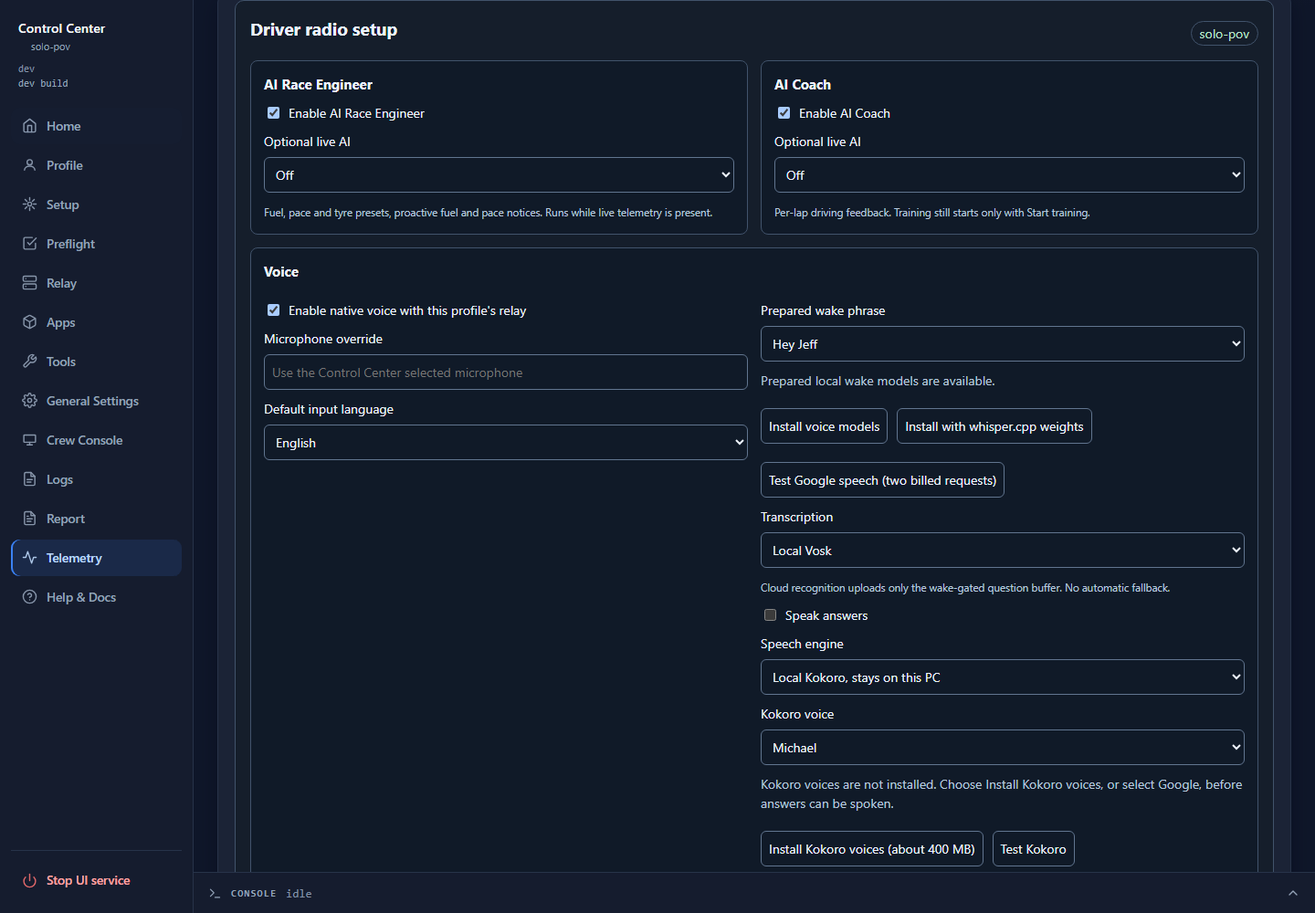
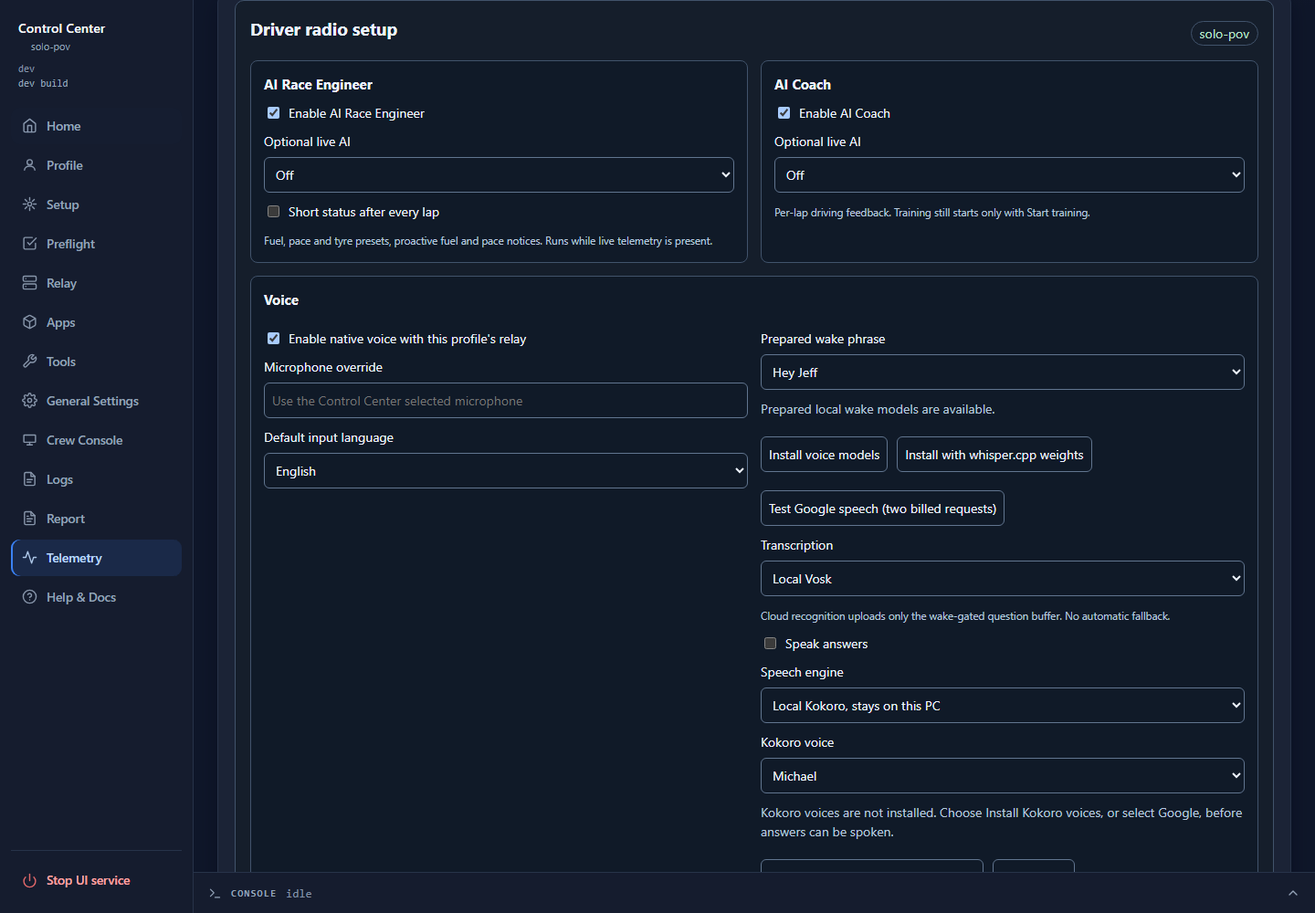
feat(radio): add lap updates and an earlier pace trend
Add an optional short status after every confirmed lap, off by default, switched
in the AI Race Engineer card. A pace trend now needs three comparable laps, not
six: the windows share the laps there are and grow to their limits. One slow lap
shows in the status answer, but the automatic notice and the tyre hint wait for
a repeat, so a single spin does not trigger them.

Changed region(s): [[0.5625, 0.341, 0.9375, 0.961], [0.1875, 0.217, 0.5625, 0.527]]

diff --git a/src/console/driver-radio.js b/src/console/driver-radio.js
@@ -15,7 +15,7 @@ function sourceOf(message){return message.source==='coach'||message.source==='en
 // A refusal is the hint that its feature is switched off, not advice: the switched-off
 // feature's own section only says Off, so the hint goes to the shared Voice row.
 function bySource(messages){const split={engineer:[],coach:[]};for(const message of messages||[])if(message.kind!=='refusal')split[sourceOf(message)].push(message);return split;}
-const KINDS={question:'Voice question',requested:'Requested answer',refusal:'Feature off',coach:'Coach message'};
+const KINDS={question:'Voice question',requested:'Requested answer',lap:'Lap update',refusal:'Feature off',coach:'Coach message'};
 function messageItem(message){const li=el('li');li.append(el('small',(KINDS[message.kind]||'Automatic advice')+' · '+message.state));if(message.question)li.append(el('p',message.question,'muted'));li.append(el('p',message.text));if(message.explanation)li.append(el('p','Interpretation: '+message.explanation,'muted'));return li;}
 function agentChoices(select,agents,chosen){select.replaceChildren(new Option('Off',''));for(const row of agents||[])select.append(new Option(row.name,row.id));if(chosen&&!Array.from(select.options).some(o=>o.value===chosen))select.append(new Option('Unavailable configured agent',chosen));select.value=chosen||'';}
 class View {
@@ -117,14 +117,14 @@ class View {
   this.q('setup-form').querySelector('button').disabled=!this.setup.binding;this.q('service-form').querySelector('button').disabled=!this.setup.binding;
  }
  buildAdmin(){
-  this.content.innerHTML=`<form id="admin-form"><div class="cards"><section class="setting" aria-label="AI Race Engineer settings"><h3>AI Race Engineer</h3><label class="check"><input id="ai-engineer-enabled" type="checkbox">Enable AI Race Engineer</label><label>Optional live AI<select id="ai-engineer-agent"><option value="">Off</option></select></label><small>Fuel, pace and tyre presets, proactive fuel and pace notices. Runs while live telemetry is present.</small></section><section class="setting" aria-label="AI Coach settings"><h3>AI Coach</h3><label class="check"><input id="ai-coach-enabled" type="checkbox">Enable AI Coach</label><label>Optional live AI<select id="ai-coach-agent"><option value="">Off</option></select></label><small>Per-lap driving feedback. Training still starts only with Start training.</small></section><section class="setting voice" aria-label="Voice settings"><h3>Voice</h3><div class="grid"><div><label class="check"><input id="voice-enabled" type="checkbox">Enable native voice with this profile's relay</label><label>Microphone override<input id="microphone" placeholder="Use the Control Center selected microphone"></label><label>Default input language<select id="input-language"><option value="en">English</option><option value="de">German</option></select></label></div><div><label>Prepared wake phrase<select id="wake"></select></label><p id="models" class="muted"></p><div class="row"><button id="radio-provision" type="button">Install voice models</button><button id="radio-whisper" type="button">Install with whisper.cpp weights</button><button id="radio-smoke" type="button">Test Google speech (two billed requests)</button></div><p id="voice-op" class="muted" role="status"></p><label>Transcription<select id="stt"><option value="vosk">Local Vosk</option><option value="whisper">Local whisper.cpp</option><option value="google">Google Speech, configured cloud</option></select></label><small>Cloud recognition uploads only the wake-gated question buffer. No automatic fallback.</small><label class="check"><input id="speech" type="checkbox">Speak answers</label><label>Speech engine<select id="speech-engine"><option value="kokoro">Local Kokoro, stays on this PC</option><option value="google">Google Studio-Q, sends answer text to Google</option></select></label><label>Kokoro voice<select id="speech-voice"><option value="am_michael">Michael</option><option value="am_fenrir">Fenrir</option><option value="af_heart">Heart</option><option value="bm_george">George</option></select></label><p id="kokoro-state" class="muted"></p><div class="row"><button id="radio-kokoro-install" type="button">Install Kokoro voices (about 400 MB)</button><button id="radio-kokoro-smoke" type="button">Test Kokoro</button></div></div></div><small>Both AI features speak and listen through this one voice.</small></section></div><p class="muted" style="margin-top:12px">Anyone signed in to this profile's Console can use an enabled feature.</p><button type="submit">Save profile radio settings</button></form><p id="native-summary" class="muted"></p><p class="notice">Native voice keeps running with browsers and Control Center closed. OBS software mute does not pause listening. Questions may be audible in the broadcast. Output uses the PC audio route.</p><section id="coach-section" aria-label="AI Coach training"></section>`;
+  this.content.innerHTML=`<form id="admin-form"><div class="cards"><section class="setting" aria-label="AI Race Engineer settings"><h3>AI Race Engineer</h3><label class="check"><input id="ai-engineer-enabled" type="checkbox">Enable AI Race Engineer</label><label>Optional live AI<select id="ai-engineer-agent"><option value="">Off</option></select></label><label class="check"><input id="lap-updates" type="checkbox">Short status after every lap</label><small>Fuel, pace and tyre presets, proactive fuel and pace notices. Runs while live telemetry is present.</small></section><section class="setting" aria-label="AI Coach settings"><h3>AI Coach</h3><label class="check"><input id="ai-coach-enabled" type="checkbox">Enable AI Coach</label><label>Optional live AI<select id="ai-coach-agent"><option value="">Off</option></select></label><small>Per-lap driving feedback. Training still starts only with Start training.</small></section><section class="setting voice" aria-label="Voice settings"><h3>Voice</h3><div class="grid"><div><label class="check"><input id="voice-enabled" type="checkbox">Enable native voice with this profile's relay</label><label>Microphone override<input id="microphone" placeholder="Use the Control Center selected microphone"></label><label>Default input language<select id="input-language"><option value="en">English</option><option value="de">German</option></select></label></div><div><label>Prepared wake phrase<select id="wake"></select></label><p id="models" class="muted"></p><div class="row"><button id="radio-provision" type="button">Install voice models</button><button id="radio-whisper" type="button">Install with whisper.cpp weights</button><button id="radio-smoke" type="button">Test Google speech (two billed requests)</button></div><p id="voice-op" class="muted" role="status"></p><label>Transcription<select id="stt"><option value="vosk">Local Vosk</option><option value="whisper">Local whisper.cpp</option><option value="google">Google Speech, configured cloud</option></select></label><small>Cloud recognition uploads only the wake-gated question buffer. No automatic fallback.</small><label class="check"><input id="speech" type="checkbox">Speak answers</label><label>Speech engine<select id="speech-engine"><option value="kokoro">Local Kokoro, stays on this PC</option><option value="google">Google Studio-Q, sends answer text to Google</option></select></label><label>Kokoro voice<select id="speech-voice"><option value="am_michael">Michael</option><option value="am_fenrir">Fenrir</option><option value="af_heart">Heart</option><option value="bm_george">George</option></select></label><p id="kokoro-state" class="muted"></p><div class="row"><button id="radio-kokoro-install" type="button">Install Kokoro voices (about 400 MB)</button><button id="radio-kokoro-smoke" type="button">Test Kokoro</button></div></div></div><small>Both AI features speak and listen through this one voice.</small></section></div><p class="muted" style="margin-top:12px">Anyone signed in to this profile's Console can use an enabled feature.</p><button type="submit">Save profile radio settings</button></form><p id="native-summary" class="muted"></p><p class="notice">Native voice keeps running with browsers and Control Center closed. OBS software mute does not pause listening. Questions may be audible in the broadcast. Output uses the PC audio route.</p><section id="coach-section" aria-label="AI Coach training"></section>`;
   this.q('radio-provision').onclick=()=>this.voiceOp('radio-provision',{},'Voice models installed.');
   this.q('radio-whisper').onclick=()=>this.voiceOp('radio-provision',{whisper:true},'Voice models and whisper.cpp weights installed.');
   this.q('radio-smoke').onclick=()=>this.voiceOp('radio-smoke',{},'Google speech works.');
   this.q('radio-kokoro-install').onclick=()=>this.voiceOp('radio-kokoro-install',{},'Kokoro voices installed.');
   this.q('radio-kokoro-smoke').onclick=()=>this.voiceOp('radio-kokoro-smoke',{},'Kokoro speech works.');
   this.q('admin-form').oninput=()=>{if(!this.dirty)this.formBase=this.adminData;this.dirty=true;this.editVersion++;};
-  this.q('admin-form').onsubmit=e=>{e.preventDefault();if(!this.adminData)return;const base=this.formBase||this.adminData;const old=base.settings;const fields={expectedProfile:base.profile,expected:old.revision,features:{engineer:{enabled:this.q('ai-engineer-enabled').checked,agent:this.q('ai-engineer-agent').value||null},coach:{enabled:this.q('ai-coach-enabled').checked,agent:this.q('ai-coach-agent').value||null}},voice:{enabled:this.q('voice-enabled').checked,microphone:this.q('microphone').value.trim()||null,input_language:this.q('input-language').value},native:{...old.native,wake:this.q('wake').value||old.native.wake,stt:this.q('stt').value},providers:{speech:this.q('speech').checked,engine:this.q('speech-engine').value,voice:this.q('speech-voice').value}};this.send('',fields);};
+  this.q('admin-form').onsubmit=e=>{e.preventDefault();if(!this.adminData)return;const base=this.formBase||this.adminData;const old=base.settings;const fields={expectedProfile:base.profile,expected:old.revision,features:{engineer:{enabled:this.q('ai-engineer-enabled').checked,agent:this.q('ai-engineer-agent').value||null},coach:{enabled:this.q('ai-coach-enabled').checked,agent:this.q('ai-coach-agent').value||null}},announcements:{lap_updates:this.q('lap-updates').checked},voice:{enabled:this.q('voice-enabled').checked,microphone:this.q('microphone').value.trim()||null,input_language:this.q('input-language').value},native:{...old.native,wake:this.q('wake').value||old.native.wake,stt:this.q('stt').value},providers:{speech:this.q('speech').checked,engine:this.q('speech-engine').value,voice:this.q('speech-voice').value}};this.send('',fields);};
  }
  // Runs a racecast CLI action as a Control Center job; the form stays usable meanwhile.
  async voiceOp(name,params,done){
@@ -148,7 +148,7 @@ class View {
   if(this.adminData?.profile!==data.profile){this.coach?.clear(this.adminData?'Profile changed. Refreshing coaching.':'');this.generation++;this.editVersion++;this.dirty=false;this.formBase=null;}
   this.access=true;this.content.hidden=false;this.problem.textContent='';this.adminData=data;this.problem.textContent=this.actionError;this.q('reload').hidden=!this.actionError;this.q('live').textContent=data.profile;
   this.q('native-summary').textContent='Native voice: '+data.native.phase+(data.native.error?' · '+data.native.error.replaceAll('_',' '):'');
-  if(this.dirty)return;const s=data.settings;this.q('ai-engineer-enabled').checked=s.features.engineer.enabled;this.q('ai-coach-enabled').checked=s.features.coach.enabled;this.q('voice-enabled').checked=s.voice.enabled;this.q('microphone').value=s.voice.microphone||'';this.q('input-language').value=s.voice.input_language;this.q('speech').checked=s.providers.speech;this.q('speech-engine').value=s.providers.engine||'kokoro';this.q('speech-voice').value=s.providers.voice||'am_michael';this.q('kokoro-state').textContent=data.native.kokoro?'Kokoro voices are installed.':'Kokoro voices are not installed. Choose Install Kokoro voices, or select Google, before answers can be spoken.';this.q('stt').value=s.native.stt;
+  if(this.dirty)return;const s=data.settings;this.q('ai-engineer-enabled').checked=s.features.engineer.enabled;this.q('ai-coach-enabled').checked=s.features.coach.enabled;this.q('voice-enabled').checked=s.voice.enabled;this.q('lap-updates').checked=s.announcements?.lap_updates===true;this.q('microphone').value=s.voice.microphone||'';this.q('input-language').value=s.voice.input_language;this.q('speech').checked=s.providers.speech;this.q('speech-engine').value=s.providers.engine||'kokoro';this.q('speech-voice').value=s.providers.voice||'am_michael';this.q('kokoro-state').textContent=data.native.kokoro?'Kokoro voices are installed.':'Kokoro voices are not installed. Choose Install Kokoro voices, or select Google, before answers can be spoken.';this.q('stt').value=s.native.stt;
   const wake=this.q('wake');wake.replaceChildren();for(const id of data.native.phrases||[])wake.append(new Option(id==='hey_jeff'?'Hey Jeff':'Hey Engineer',id));wake.disabled=!wake.options.length;wake.value=s.native.wake;this.q('models').textContent=wake.options.length?'Prepared local wake models are available.':'Local models are unavailable. Choose Install voice models before using native voice.';
   for(const feature of ['engineer','coach'])agentChoices(this.q('ai-'+feature+'-agent'),data.agents,s.features[feature].agent);
   this.q('admin-form').querySelectorAll('button').forEach(n=>n.disabled=false);this.voiceButtons();

diff --git a/src/scripts/driver_radio_assessment.py b/src/scripts/driver_radio_assessment.py
@@ -10,6 +10,7 @@ DEFAULTS = dict(fuel_warning_laps=2.0, fuel_urgent_laps=1.0, consumption_laps=5,
                 baseline_laps=3, recent_laps=3, pace_min_s=.5, pace_fraction=.005,
                 noise_multiplier=3.0)
 MAX_ROWS = 512
+MIN_PACE_LAPS = 3
 
 
 def number(value, positive=False):
@@ -82,11 +83,15 @@ def _cohort(snapshot, service):
 
 def _pace(rows, limits):
     rows = [r for r in rows if number(r.get('time_s'), True) is not None]
+    # Early in a stint the windows share the laps there are, up to their limits.
     base_count, recent_count = limits['baseline_laps'], limits['recent_laps']
+    if len(rows) < base_count + recent_count:
+        recent_count = min(recent_count, max(1, len(rows)//2))
+        base_count = min(base_count, len(rows)-recent_count)
     result = dict(state='insufficient', last_s=rows[-1]['time_s'] if rows else None,
                   best_s=min((r['time_s'] for r in rows), default=None),
                   baseline_ids=[], recent_ids=[], delta_s=None, threshold_s=None)
-    if len(rows) < base_count + recent_count:
+    if len(rows) < MIN_PACE_LAPS:
         return result
     base = rows[-base_count-recent_count:-recent_count]
     recent = rows[-recent_count:]
@@ -98,9 +103,28 @@ def _pace(rows, limits):
     repeats = sum(r['time_s'] - baseline >= threshold for r in recent)
     state = ('slower' if delta >= threshold and repeats >= math.ceil(recent_count * 2/3)
              else 'faster' if delta <= -threshold else 'stable')
-    return dict(result, state=state, baseline_ids=[r['id'] for r in base],
+    return dict(result, state=state, repeated=repeats >= 2, baseline_ids=[r['id'] for r in base],
                 recent_ids=[r['id'] for r in recent], baseline_s=round(baseline, 3),
                 recent_s=round(latest, 3), delta_s=round(delta, 3), threshold_s=round(threshold, 3))
+
+
+def _latest_lap(snapshot):
+    """The newest confirmed timed lap of this session, comparable or not: a lap update
+    also reports the out lap, which never enters the pace comparison."""
+    for row in reversed((snapshot.get('laps') or [])[-MAX_ROWS:]):
+        if row.get('session_id') != snapshot.get('session_id'):
+            return None
+        if row.get('state') == 'confirmed' and number(row.get('time_s'), True) is not None:
+            return row
+    return None
+
+
+def _lap_text(row, usable):
+    minutes, seconds = divmod(row['time_s'], 60)
+    text = f"{int(minutes)}:{seconds:04.1f}."
+    if number(row.get('lap'), True) is not None:
+        text = f"Lap {row['lap']:g}, {text}"
+    return text+(f' Fuel for {usable:.1f} laps.' if usable is not None else '')
 
 
 def _finish(snapshot, setup, rows, consumption, usable):
@@ -190,7 +214,7 @@ def assess(snapshot, session=None, limits=None):
     compound = service.get('compound') or (snapshot.get('current') or {}).get('compound') or setup.get('starting_compound')
     tyres = dict(temperatures_c=temps, order=['front_left','front_right','rear_left','rear_right'],
                  compound=compound, age_laps=(snapshot.get('current') or {}).get('tyre_age_laps') if not service else None,
-                 wear=None, concern=pace['state']=='slower' and live)
+                 wear=None, concern=pace['state']=='slower' and pace['repeated'] and live)
     uncertainty = ['Tyre wear, traffic and weather causes are not measured.']
     if not (snapshot.get('current') or {}).get('context_confirmed'):
         uncertainty.append('Current strategy and tyre context may be incomplete.')
@@ -246,6 +270,8 @@ def assess(snapshot, session=None, limits=None):
                    else 'Comparable pace is stable.' if pace['state']=='stable'
                    else f"Comparable pace is {abs(pace['delta_s']):.1f} seconds {pace['state']}.")
     if tyres['concern']:status_pace += ' Tyres may contribute; consider tyres at the next stop. Causes remain uncertain.'
+    lap = _latest_lap(snapshot)
+    answers = dict(fuel=fuel_text, pace=pace_text, tyres=tyre_text, status=status_fuel+' '+status_pace)
     return dict(version=1, binding=binding(snapshot), live=live, fuel=fuel_result, pace=pace,
-                tyres=tyres, uncertainties=uncertainty, limits=limits,
-                answers=dict(fuel=fuel_text, pace=pace_text, tyres=tyre_text, status=status_fuel+' '+status_pace))
+                tyres=tyres, uncertainties=uncertainty, limits=limits, latest_lap_id=lap['id'] if lap else None,
+                lap_text=_lap_text(lap, usable) if lap else None, answers=answers)

diff --git a/src/scripts/driver_radio_access.py b/src/scripts/driver_radio_access.py
@@ -58,6 +58,12 @@ def _provider_settings(value):
                 voice=value.get('voice', 'am_michael'))
 
 
+def _announcement_settings(value):
+    if not isinstance(value, dict) or set(value) - {'lap_updates'} or type(value.get('lap_updates', False)) is not bool:
+        raise ValueError('Invalid radio announcements')
+    return dict(lap_updates=value.get('lap_updates', False))
+
+
 def _feature_settings(value, current=None):
     """Both AI feature switches, each with its own optional agent. A partial update
     changes only the fields it names; anything unknown is invalid."""
@@ -98,7 +104,7 @@ def _valid(doc):
         return False
     return (isinstance(doc, dict)
             and {'version', 'revision', 'features', 'voice'} <= set(doc)
-            and not set(doc) - {'version', 'revision', 'features', 'voice', 'limits', 'providers', 'native'}
+            and not set(doc) - {'version', 'revision', 'features', 'voice', 'limits', 'providers', 'native', 'announcements'}
             and type(doc['version']) is int and doc['version'] == 2
             and type(doc['revision']) is int and doc['revision'] >= 0
             and features and _voice(doc['voice']))
@@ -122,7 +128,7 @@ class Store:
             return dict(version=2, revision=0, features=_feature_settings({}),
                         voice=dict(enabled=False, microphone=None, input_language='en'),
                         limits=driver_radio_assessment.settings(), providers=_provider_settings({}),
-                        native=driver_radio_voice_config.settings())
+                        native=driver_radio_voice_config.settings(), announcements=_announcement_settings({}))
         except OSError as exc:
             raise RadioError('settings_unavailable', 'Radio settings are unreadable; repair locally') from exc
         try:
@@ -132,13 +138,14 @@ class Store:
             doc['limits'] = driver_radio_assessment.settings(doc.get('limits'))
             doc['providers'] = _provider_settings(doc.get('providers', {}))
             doc['native'] = driver_radio_voice_config.settings(doc.get('native'))
+            doc['announcements'] = _announcement_settings(doc.get('announcements', {}))
             return doc
         except (ValueError, TypeError, RecursionError) as exc:
             raise RadioError('settings_unavailable', 'Radio settings are unreadable; repair locally') from exc
 
     def update(self, body):
         _require(self.available, 'source_unavailable', 'Radio requires a Solo POV telemetry profile')
-        _require(isinstance(body, dict) and not set(body) - {'expected', 'features', 'voice', 'limits', 'providers', 'native'},
+        _require(isinstance(body, dict) and not set(body) - {'expected', 'features', 'voice', 'limits', 'providers', 'native', 'announcements'},
                  'invalid_settings', 'Unsupported radio settings')
         try:
             with _LOCK, gt7_context._file_lock(str(self.path)):
@@ -153,6 +160,7 @@ class Store:
                     doc['limits'] = driver_radio_assessment.settings(doc.get('limits'))
                     doc['providers'] = _provider_settings(doc.get('providers', {}))
                     doc['native'] = driver_radio_voice_config.settings(doc.get('native'))
+                    doc['announcements'] = _announcement_settings(doc.get('announcements', {}))
                 except ValueError as exc:
                     raise RadioError('invalid_settings', 'Invalid radio features, limits or service selection') from exc
                 doc['revision'] += 1

diff --git a/tests/test_driver_radio_assessment.py b/tests/test_driver_radio_assessment.py
@@ -31,6 +31,16 @@ def review(snap, session=None, limits=None):
     return radio.assess(snap, session, limits)
 
 
+def t_lap_text_uses_the_newest_confirmed_lap():
+    snap=snapshot((90,92.46));data=review(snap)
+    assert data['latest_lap_id']=='L2' and data['lap_text'].startswith('Lap 2, 1:32.5. Fuel for ') and data['lap_text'].endswith(' laps.'),data['lap_text']
+    snap['laps'][-1]=dict(snap['laps'][-1],state='provisional')
+    assert review(snap)['latest_lap_id']=='L1'
+    snap['instruments']={}
+    assert review(snap)['lap_text']=='Lap 1, 1:30.0.'
+    assert review({})['lap_text'] is None
+
+
 def t_all_presets_have_evidence_and_no_provider_dependency():
     data=review(snapshot(), {'setup':{}, 'service':None})
     assert set(data['answers'])=={'fuel','pace','tyres','status'}
@@ -65,10 +75,14 @@ def t_pace_requires_repeated_comparable_evidence():
     assert review(snapshot((90,90,90,90,90,130)))['pace']['state']=='stable'
     assert review(snapshot((90,94,86,91,94,89)))['pace']['state']=='stable'
     assert review(snapshot((90,90,90,89,89,89)))['pace']['state']=='faster'
-    assert review(snapshot((90,90,91)))['pace']['state']=='insufficient'
-    assert review(snapshot((90,90,90,91,91)))['pace']['state']=='insufficient'
+    assert review(snapshot((90,91)))['pace']['state']=='insufficient'
+    early=review(snapshot((90,90,91)))
+    assert early['pace']['state']=='slower' and early['pace']['delta_s']==1,'three comparable laps are enough'
+    assert not early['pace']['repeated'] and not early['tyres']['concern'],'one slow lap is no tyre concern'
+    four=review(snapshot((90,90,91,91)))['pace']
+    assert four['baseline_ids']==['L1','L2'] and four['recent_ids']==['L3','L4'] and four['repeated']
     snap=snapshot();snap['laps'][2]['state']='unconfirmed'
-    assert review(snap)['pace']['state']=='insufficient'
+    assert 'L3' not in review(snap)['pace']['baseline_ids'],'an unconfirmed lap never counts'
     for field,value in (('session_id','other'),('car_id',2),('track_id','other'),('compound','RS'),
                         ('strategy',{'fuel_map':6}),('after_service',True)):
         snap=snapshot()
@@ -76,7 +90,7 @@ def t_pace_requires_repeated_comparable_evidence():
         snap['laps'][-3][field]=value
         assert review(snap)['pace']['state']=='insufficient', (field,review(snap)['pace'])
     snap=snapshot();snap['laps'][2]['analysis_role']='pit'
-    assert review(snap)['pace']['state']=='insufficient'
+    assert 'L3' not in review(snap)['pace']['baseline_ids'],'a pit lap never counts'
 
 
 def t_service_resets_evidence_without_inventing_tyres_or_wear():

diff --git a/src/scripts/driver_radio_service.py b/src/scripts/driver_radio_service.py
@@ -58,6 +58,8 @@ class Service:
         self._previous_fuel = None
         self._refuel_total = 0
         self._voice_enabled = False
+        self._lap_updates = False
+        self._lap_seen, self._lap_key = False, None
         self._speech_enabled = False
         self._audio_output = False
         self._pace_at = float('-inf')
@@ -100,6 +102,7 @@ class Service:
         self._epoch = uuid.uuid4().hex
         self._fuel_level, self._previous_fuel, self._refuel_total = 0, None, 0
         self._pace_key, self._pace_at = None, float('-inf')
+        self._lap_seen, self._lap_key = False, None
         self._live = False
 
     def _expire(self, now):
@@ -264,6 +267,7 @@ class Service:
                               for name in access.FEATURES}
             self._voice_enabled = config['voice']['enabled'] and enabled
             self._speech_enabled = config['providers']['speech'] is True
+            self._lap_updates = config['announcements']['lap_updates'] is True
             now = self.clock()
             self._expire(now)
             signature = (key, snapshot.get('revision'), snapshot.get('receipt', {}).get('state'),
@@ -311,11 +315,22 @@ class Service:
             self._publish('fuel', 'fuel', fuel['severity'], result, now)
             self._fuel_level = level
         pace_key = tuple(result['pace']['recent_ids'])
-        if result['pace']['state'] == 'slower' and pace_key != self._pace_key:
+        # One bad lap (a spin, traffic) is not a trend: the notice needs a repeat.
+        if result['pace']['state'] == 'slower' and result['pace'].get('repeated') and pace_key != self._pace_key:
             if now - self._pace_at >= PACE_COOLDOWN:
                 self._publish('pace', 'pace', 'normal', result, now)
                 self._pace_at = now
             self._pace_key = pace_key
+        # Only a lap completed while listening is news, not one found at start-up.
+        lap_id = result.get('latest_lap_id')
+        if lap_id != self._lap_key:
+            announce = self._lap_seen and self._lap_updates and lap_id is not None
+            self._lap_seen, self._lap_key = True, lap_id
+            if announce:
+                spoken = dict(result, answers=dict(result['answers'], lap=result['lap_text']))
+                message = self._publish('lap', 'lap', 'normal', spoken, now)
+                self._messages[message['id']]['ai_state'] = 'not_requested'
+        self._lap_seen = True  # An empty first read still means later laps are new.
 
     def _state(self):
         return copy.deepcopy(dict(version=1, revision=self._revision, epoch=self._epoch,

diff --git a/tests/test_driver_radio_service.py b/tests/test_driver_radio_service.py
@@ -477,6 +477,54 @@ def t_held_text_appears_by_itself_after_the_bound():
         assert f.service.history(since=f.service.history()['revision'])['changed'] is False
 
 
+def t_one_slow_lap_reports_pace_but_sends_no_notice():
+    with tempfile.TemporaryDirectory() as d:
+        f=Fixture(d,snapshot((90,90,92)));f.poll()
+        assert f.poll() and not [m for m in f.service.history()['messages'] if m['kind']=='pace']
+        assert '2.0 seconds slower' in f.request('status')['text']
+        f.at+=61;f.snap['laps'].append(dict(f.snap['laps'][-1],id='L4',lap=4));f.snap['current']['lap']=5
+        f.snap['revision']+=1;f.poll()
+        assert len([m for m in f.service.history()['messages'] if m['kind']=='pace'])==1,'a repeat is a trend'
+
+
+def _lap_rows(f):
+    return [m for m in f.service.history()['messages'] if m['kind']=='lap']
+
+
+def _complete_lap(f,n):
+    f.snap['laps'].append(dict(f.snap['laps'][-1],id='L'+str(n),lap=n,time_s=90))
+    f.snap['current']['lap']=n+1;f.snap['revision']+=1;f.poll()
+
+
+def t_lap_updates_follow_their_switch_and_each_lap_once():
+    with tempfile.TemporaryDirectory() as d:
+        f=Fixture(d);f.poll();_complete_lap(f,7)
+        assert _lap_rows(f)==[],'off by default'
+        f.access.update({'expected':f.access.read()['revision'],'announcements':{'lap_updates':True}})
+        f.poll();f.snap['revision']+=1;f.poll()
+        assert _lap_rows(f)==[],'a lap completed before switching on is not news'
+        _complete_lap(f,8)
+        rows=_lap_rows(f)
+        assert len(rows)==1 and rows[0]['text'].startswith('Lap 8, 1:30.0.') and rows[0]['ai_state']=='not_requested',rows
+        f.snap['revision']+=1;f.poll()
+        assert len(_lap_rows(f))==1,'one message per lap'
+        _complete_lap(f,9)
+        assert len(_lap_rows(f))==2
+        f.access.update({'expected':f.access.read()['revision'],'announcements':{'lap_updates':False}})
+        f.poll();_complete_lap(f,10)
+        assert _lap_rows(f)==[],'saved settings start a new message context; no update follows'
+
+
+def t_lap_update_on_a_relay_start_mid_session_stays_quiet():
+    with tempfile.TemporaryDirectory() as d:
+        f=Fixture(d)
+        f.access.update({'expected':f.access.read()['revision'],'announcements':{'lap_updates':True}})
+        f.poll()
+        assert _lap_rows(f)==[]
+        _complete_lap(f,7)
+        assert len(_lap_rows(f))==1
+
+
 def t_hud_text_follows_message_life():
     with tempfile.TemporaryDirectory() as d:
         f=Fixture(d);f.poll()

diff --git a/tests/test_driver_radio_ui.py b/tests/test_driver_radio_ui.py
@@ -414,7 +414,7 @@ def t_admin_form_saves_two_features():
      clearTimeout(view.coach.timer);await view.coach.poll();
      byId('ai-engineer-enabled').checked=true;byId('ai-engineer-agent').value='agent-a';
      byId('ai-coach-enabled').checked=true;byId('ai-coach-agent').value='agent-b';
-     byId('speech-engine').value='kokoro';byId('speech-voice').value='am_fenrir';
+     byId('speech-engine').value='kokoro';byId('speech-voice').value='am_fenrir';byId('lap-updates').checked=true;
      byId('admin-form').onsubmit({preventDefault(){}});await tick();
      const form=written.find(html=>html.includes('id="admin-form"'));
      const result={posts,form,coachOff:byId('coach-off').hidden};view.destroy();console.log(JSON.stringify(result));
@@ -423,6 +423,7 @@ def t_admin_form_saves_two_features():
     body=out['posts'][0]['body']
     assert body['features']=={'engineer':{'enabled':True,'agent':'agent-a'},'coach':{'enabled':True,'agent':'agent-b'}},body
     assert body['providers']=={'speech':False,'engine':'kokoro','voice':'am_fenrir'},body
+    assert body['announcements']=={'lap_updates':True},body
     assert 'drivers' not in json.dumps(body) and body['expected']==3 and body['expectedProfile']=='solo-pov',body
     cards=[out['form'].find('<h3>'+title+'</h3>') for title in ('AI Race Engineer','AI Coach','Voice')]
     assert -1 not in cards and cards==sorted(cards),cards

diff --git a/tests/test_driver_radio_access.py b/tests/test_driver_radio_access.py
@@ -360,6 +360,24 @@ def t_native_service_selection_rejects_paths_unknown_engines_and_unbounded_contr
         assert state['native']['stt']=='whisper' and state['revision']==1
 
 
+def t_lap_updates_default_off_and_reject_invalid_values():
+    with tempfile.TemporaryDirectory() as d:
+        store = radio.Store(d, True)
+        store.update({'expected': 0, 'features': features(True, False)})
+        assert store.read()['announcements'] == {'lap_updates': False}
+        doc = json.loads(store.path.read_text(encoding='utf8'))
+        del doc['announcements']
+        store.path.write_text(json.dumps(doc), encoding='utf8')
+        assert store.read()['announcements'] == {'lap_updates': False}
+        for bad in ({'lap_updates': 'yes'}, {'other': True}):
+            try:
+                store.update({'expected': store.read()['revision'], 'announcements': bad})
+            except radio.RadioError as exc:
+                assert exc.code == 'invalid_settings', exc.code
+            else:
+                raise AssertionError(bad)
+
+
 if __name__ == '__main__':
     for name, fn in sorted(list(globals().items())):
         if name.startswith('t_') and callable(fn):

diff --git a/src/docs/wiki/Driver-Radio.md b/src/docs/wiki/Driver-Radio.md
@@ -106,6 +106,20 @@ the human **Race Engineer** desk.
 
 ![Driver-only Console launcher](images/console-driver-radio-launcher.png)
 
+## Lap updates
+
+**Short status after every lap** in the **AI Race Engineer** card is off by default. With
+it on, each confirmed lap produces one short message, spoken and shown like any other, for
+example `Lap 12, 1:32.4. Fuel for 9.5 laps.` Fuel is left out until a range is measured.
+Warnings take priority over a queued update.
+
+## Pace comparison
+
+A pace trend is available after three comparable completed laps: two as the baseline and
+one as the current lap. The out lap and pit laps do not count. With more laps the windows
+grow to three laps each. A single slow lap shows in the status answer, but the automatic
+pace notice waits for a second slow lap, so one spin or traffic does not trigger it.
+
 ## Use the AI Race Engineer
 
 The four buttons request **Fuel status**, **Pace**, **Tyre temperatures** and
